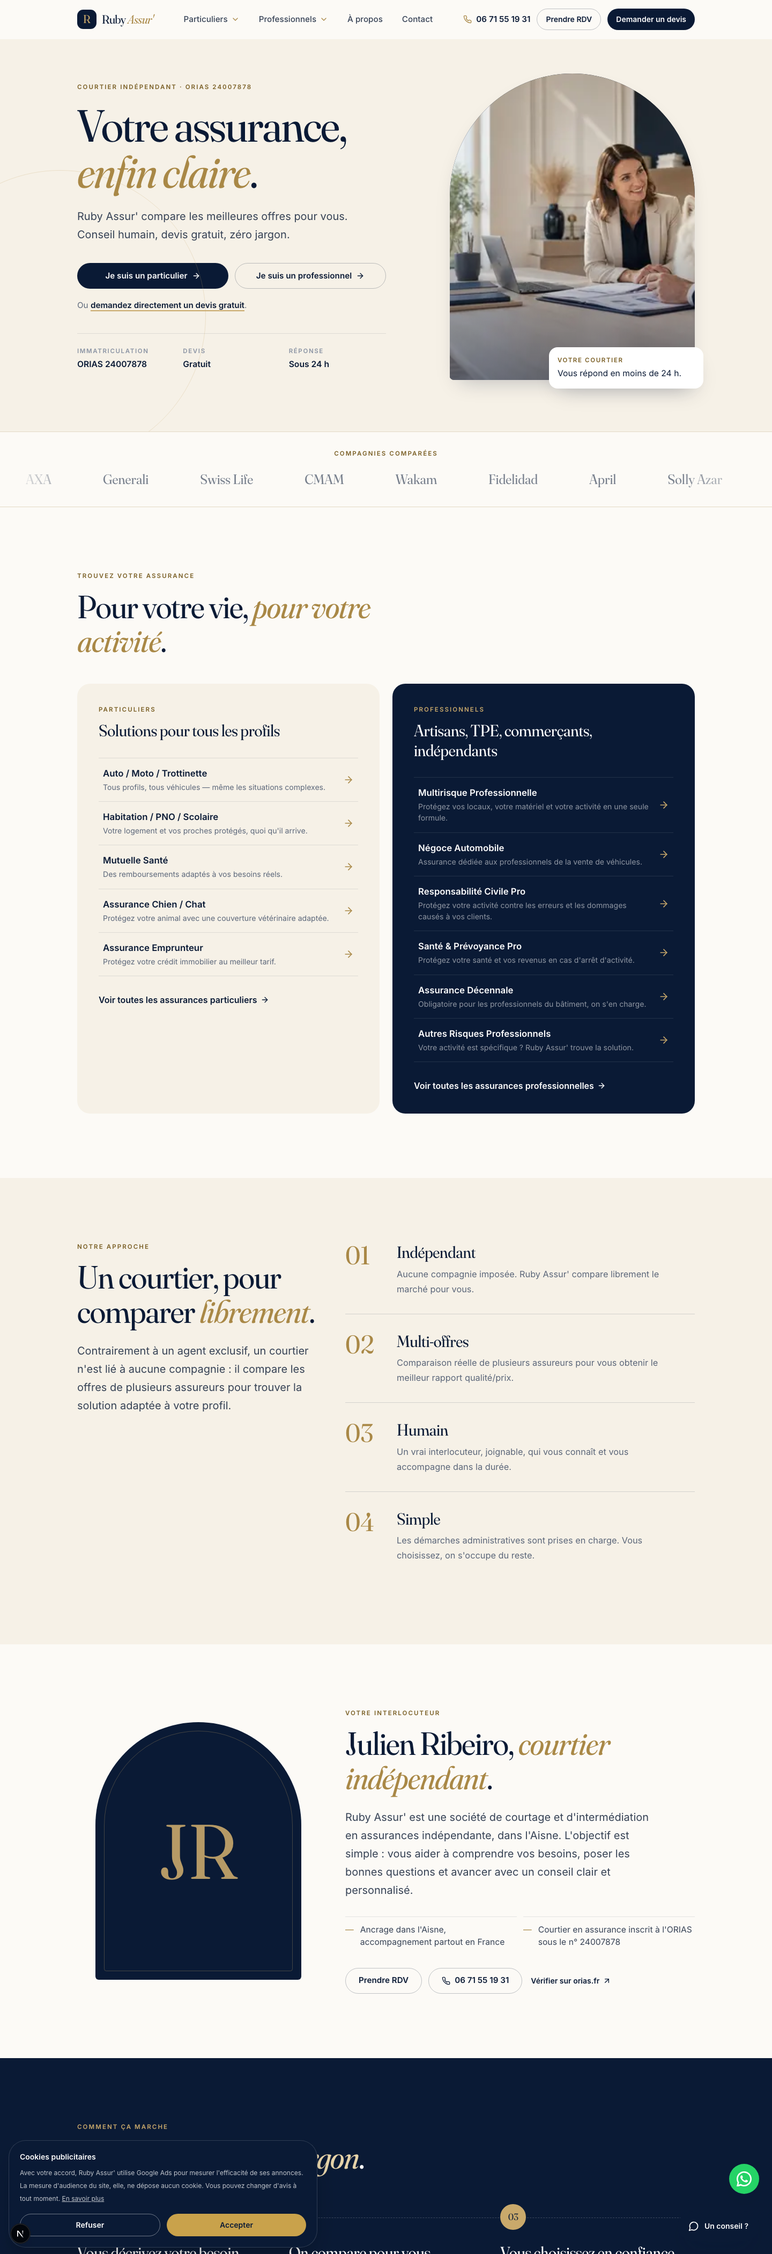
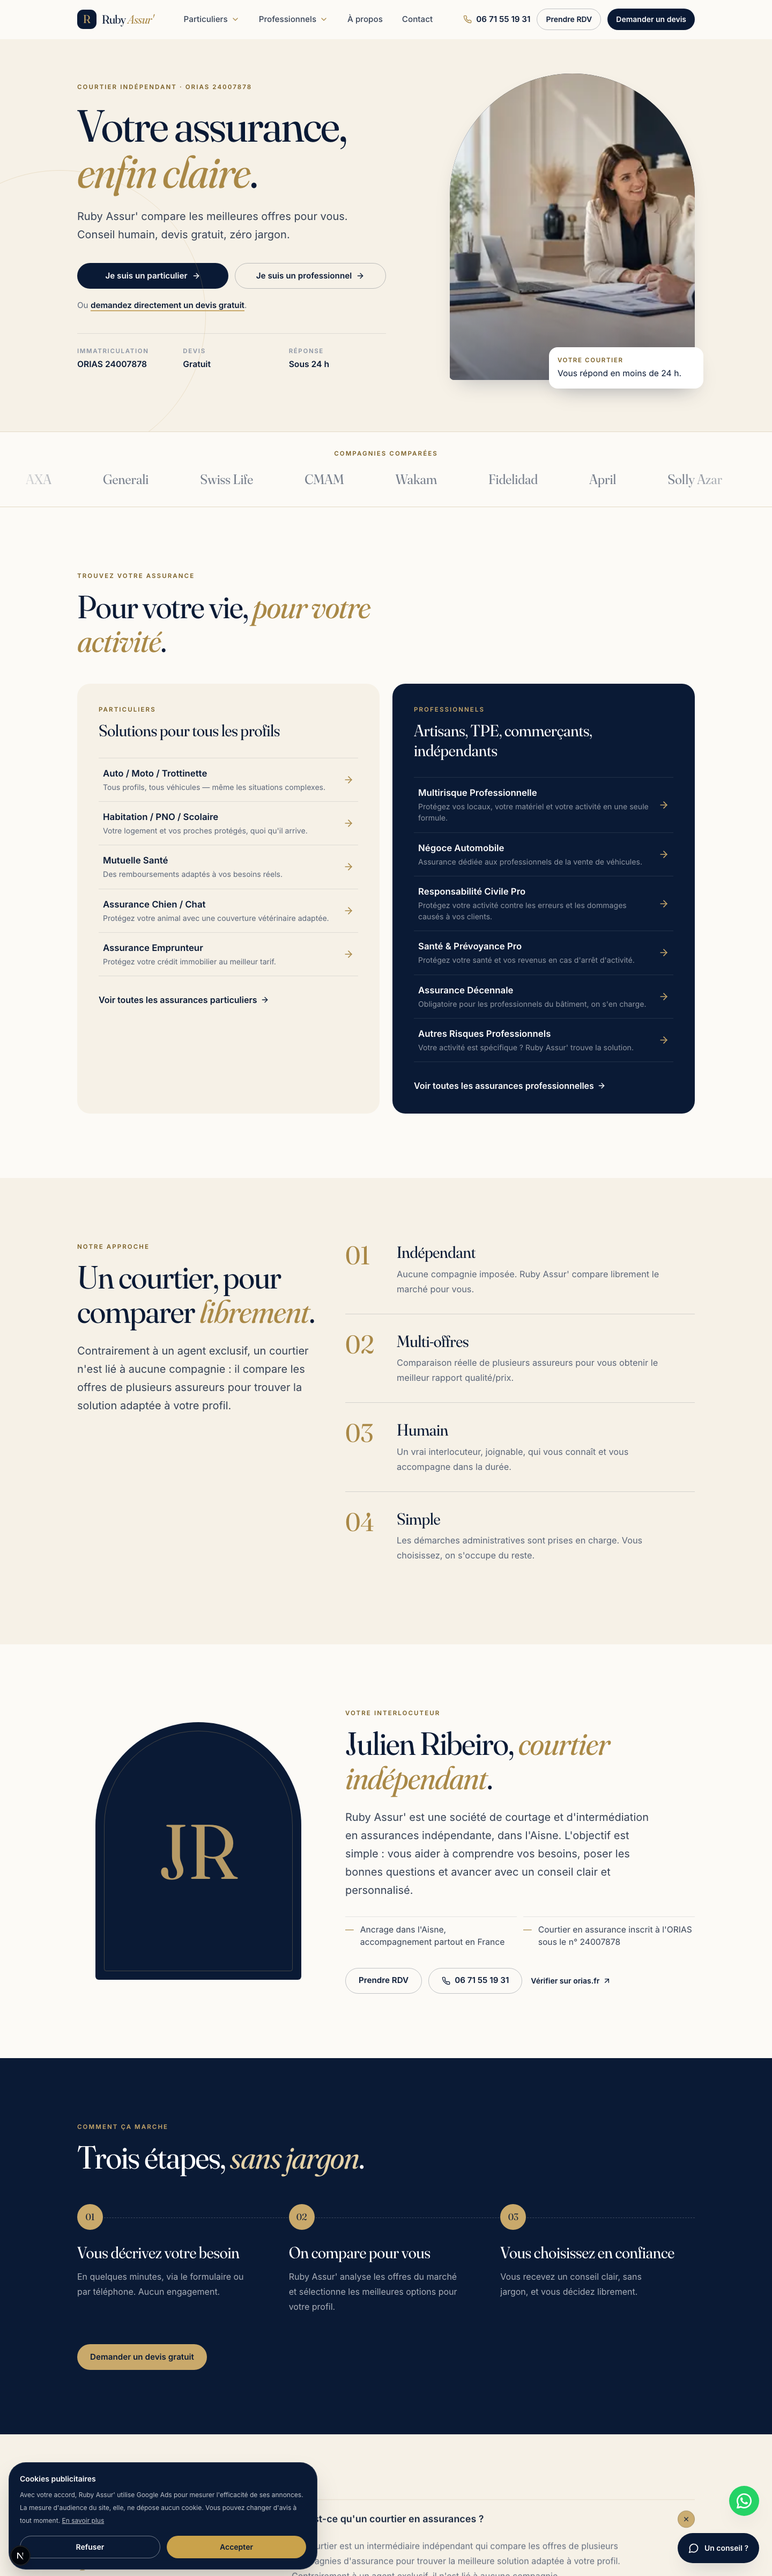
Accessibilité: contrastes corrigés (or et gris), nettoyage du code inutilisé, direction artistique documentée

diff --git a/app/globals.css b/app/globals.css
@@ -24,13 +24,13 @@ a { color: inherit; text-decoration: none; }
 ::selection { background: #E6D3A9; color: #0A1A35; }
 
 h1, h2, h3 { font-family: var(--font-display), Georgia, serif; }
-h1 em, h2 em, h3 em, .display em { font-style: italic; font-weight: 400; color: #A98846; }
+h1 em, h2 em, h3 em, .display em { font-style: italic; font-weight: 400; color: #94742F; }
 .on-dark h1 em, .on-dark h2 em, .on-dark h3 em, .on-dark .display em { color: #E6D3A9; }
 
 /* Texte « display » : serif expressive, optique adaptée à la taille */
 .display { font-family: var(--font-display), Georgia, serif; font-variation-settings: "opsz" 96, "SOFT" 30; font-weight: 400; }
 
-:focus-visible { outline: 2px solid #A98846; outline-offset: 3px; border-radius: 4px; }
+:focus-visible { outline: 2px solid #94742F; outline-offset: 3px; border-radius: 4px; }
 .on-dark :focus-visible { outline-color: #E6D3A9; }
 
 /* ───────────────────────── Composants ───────────────────────── */

diff --git a/tailwind.config.ts b/tailwind.config.ts
@@ -21,8 +21,8 @@ const config: Config = {
         ivory: { DEFAULT: "#F6F1E7", deep: "#ECE4D2", soft: "#FAF7F0" },
         paper: "#FCFAF6",
         // Or champagne (texte sur fond clair : utiliser `champagne-ink`)
-        champagne: { DEFAULT: "#C9A96B", light: "#E6D3A9", deep: "#A98846", ink: "#7A5F25" },
-        ink: { DEFAULT: "#16202F", soft: "#364255", muted: "#5B6679", faint: "#8A93A3" },
+        champagne: { DEFAULT: "#C9A96B", light: "#E6D3A9", deep: "#94742F", ink: "#7A5F25" },
+        ink: { DEFAULT: "#16202F", soft: "#364255", muted: "#5B6679", faint: "#5F6A7D" },
         line: { DEFAULT: "#E3DAC6", cool: "#DDE3EC", dark: "rgb(255 255 255 / 0.12)" },
         // États (portail) : toujours accompagnés d'un libellé et d'une icône
         ok: { DEFAULT: "#1E7A4C", soft: "#E3F2EA" },

diff --git a/docs/refonte/direction-artistique.md b/docs/refonte/direction-artistique.md
@@ -1,0 +1,36 @@
+# Direction artistique et design system — Ruby Assur'
+
+## Intention
+Une marque numérique **premium, crédible et accessible** : conserver l'identité (bleu marine profond, doré discret, élégance, sérieux, proximité) et la réinterpréter avec plus de finition. Composition **éditoriale** (asymétrie, lignes fines, grandes respirations) au lieu du modèle « titre centré + trois cartes identiques ».
+
+## Jetons (définis une seule fois dans `tailwind.config.ts` et `app/globals.css`)
+| Famille | Valeurs |
+|---|---|
+| Bleu nuit | `night` 900 `#0A1A35` (identique à l'ancien bleu), 950 `#060F20`, 800 `#0F2347`, 700 `#17315E` |
+| Neutres chauds | `ivory` `#F6F1E7` (+ `deep`, `soft`), `paper` `#FCFAF6` |
+| Or champagne (parcimonie) | `champagne` `#C9A96B`, `light` `#E6D3A9`, `deep` `#94742F` (≥ 3,9:1 sur ivoire, réservé aux grands textes et pictogrammes), **`ink` `#7A5F25` pour le texte sur fond clair** (contraste) |
+| Texte | `ink` `#16202F`, `soft`, `muted`, `faint` `#5F6A7D` (≥ 4,8:1) |
+| États (portail) | `ok` / `warn` / `danger` / `info` (+ variantes `soft`) — toujours doublés d'un libellé et d'une icône |
+| Typographie | **Fraunces** (serif expressive, italiques) pour les titres ; **Inter** pour l'interface |
+| Échelle de titres | `display-xl` → `display-sm` + `lead`, fluides (`clamp`) de 320 à 1920 px |
+| Rayons / ombres | `sm` 6 px → `2xl` 32 px ; ombres `hairline`, `card`, `lift` (discrètes) |
+| Espacements | `section` (fluide), `gutter` (fluide), conteneur `max-w-page` (76 rem) |
+| Animations | apparition au défilement en **CSS pur** (`animation-timeline: view()`, sans JavaScript, sans masquage du contenu si non pris en charge), marquee des compagnies, ouverture de menu ; **`prefers-reduced-motion` désactive tout** |
+
+Les anciens noms (`navy`, `gold`, `off`, `ruby`) restent définis et pointent vers la nouvelle palette : les pages légales et le chatbot héritent du nouveau style sans modification.
+
+## Composants (réutilisables, sans abstraction inutile)
+`Logo` (monogramme + mot-symbole provisoires) · `Header` (serveur) + `HeaderNav` (menus déroulants accessibles, tiroir mobile plein écran) · `Footer` · `PartnersScroll` · `FAQ` (accordéon accessible) · `CtaBand` · `ProductPage` (2 déclinaisons : particuliers clair / professionnels sombre) · `AudiencePage` · classes `btn-*`, `field`, `card`, `eyebrow`, `link-arrow`.
+
+## Décisions à retenir
+- **Aucune photo fictive de Julien** : cadre monogramme (JR) à remplacer par sa photographie.
+- **Avis clients toujours masqués** (non vérifiés) ; aucune statistique ni témoignage inventé.
+- Aucun logo de compagnie utilisé (mots-symboles) pour ne suggérer aucun partenariat officiel.
+- Mise en page **séparée** pour le portail (pas de Google Ads/Analytics/chatbot).
+- Pages obsolètes supprimées (`/confidentialite`, `/pourquoi-nous`, `/nos-assurances`) : leurs redirections 301 sont conservées dans `next.config.mjs`.
+
+## Captures
+`docs/refonte/avant/` (site actuel en production) et `docs/refonte/apres/` (nouvelle version locale), pages et largeurs comparables.
+
+## Contrastes mesurés (WCAG)
+Texte courant ≥ 5,1:1 ; texte secondaire ≥ 4,8:1 ; `champagne-ink` ≥ 5,3:1 ; blanc sur bleu nuit 17:1 ; or sur bleu nuit 7,7:1 ; badges d'état ≥ 4,6:1. Deux valeurs initiales (gris très clair, or) étaient sous les seuils : elles ont été corrigées.
